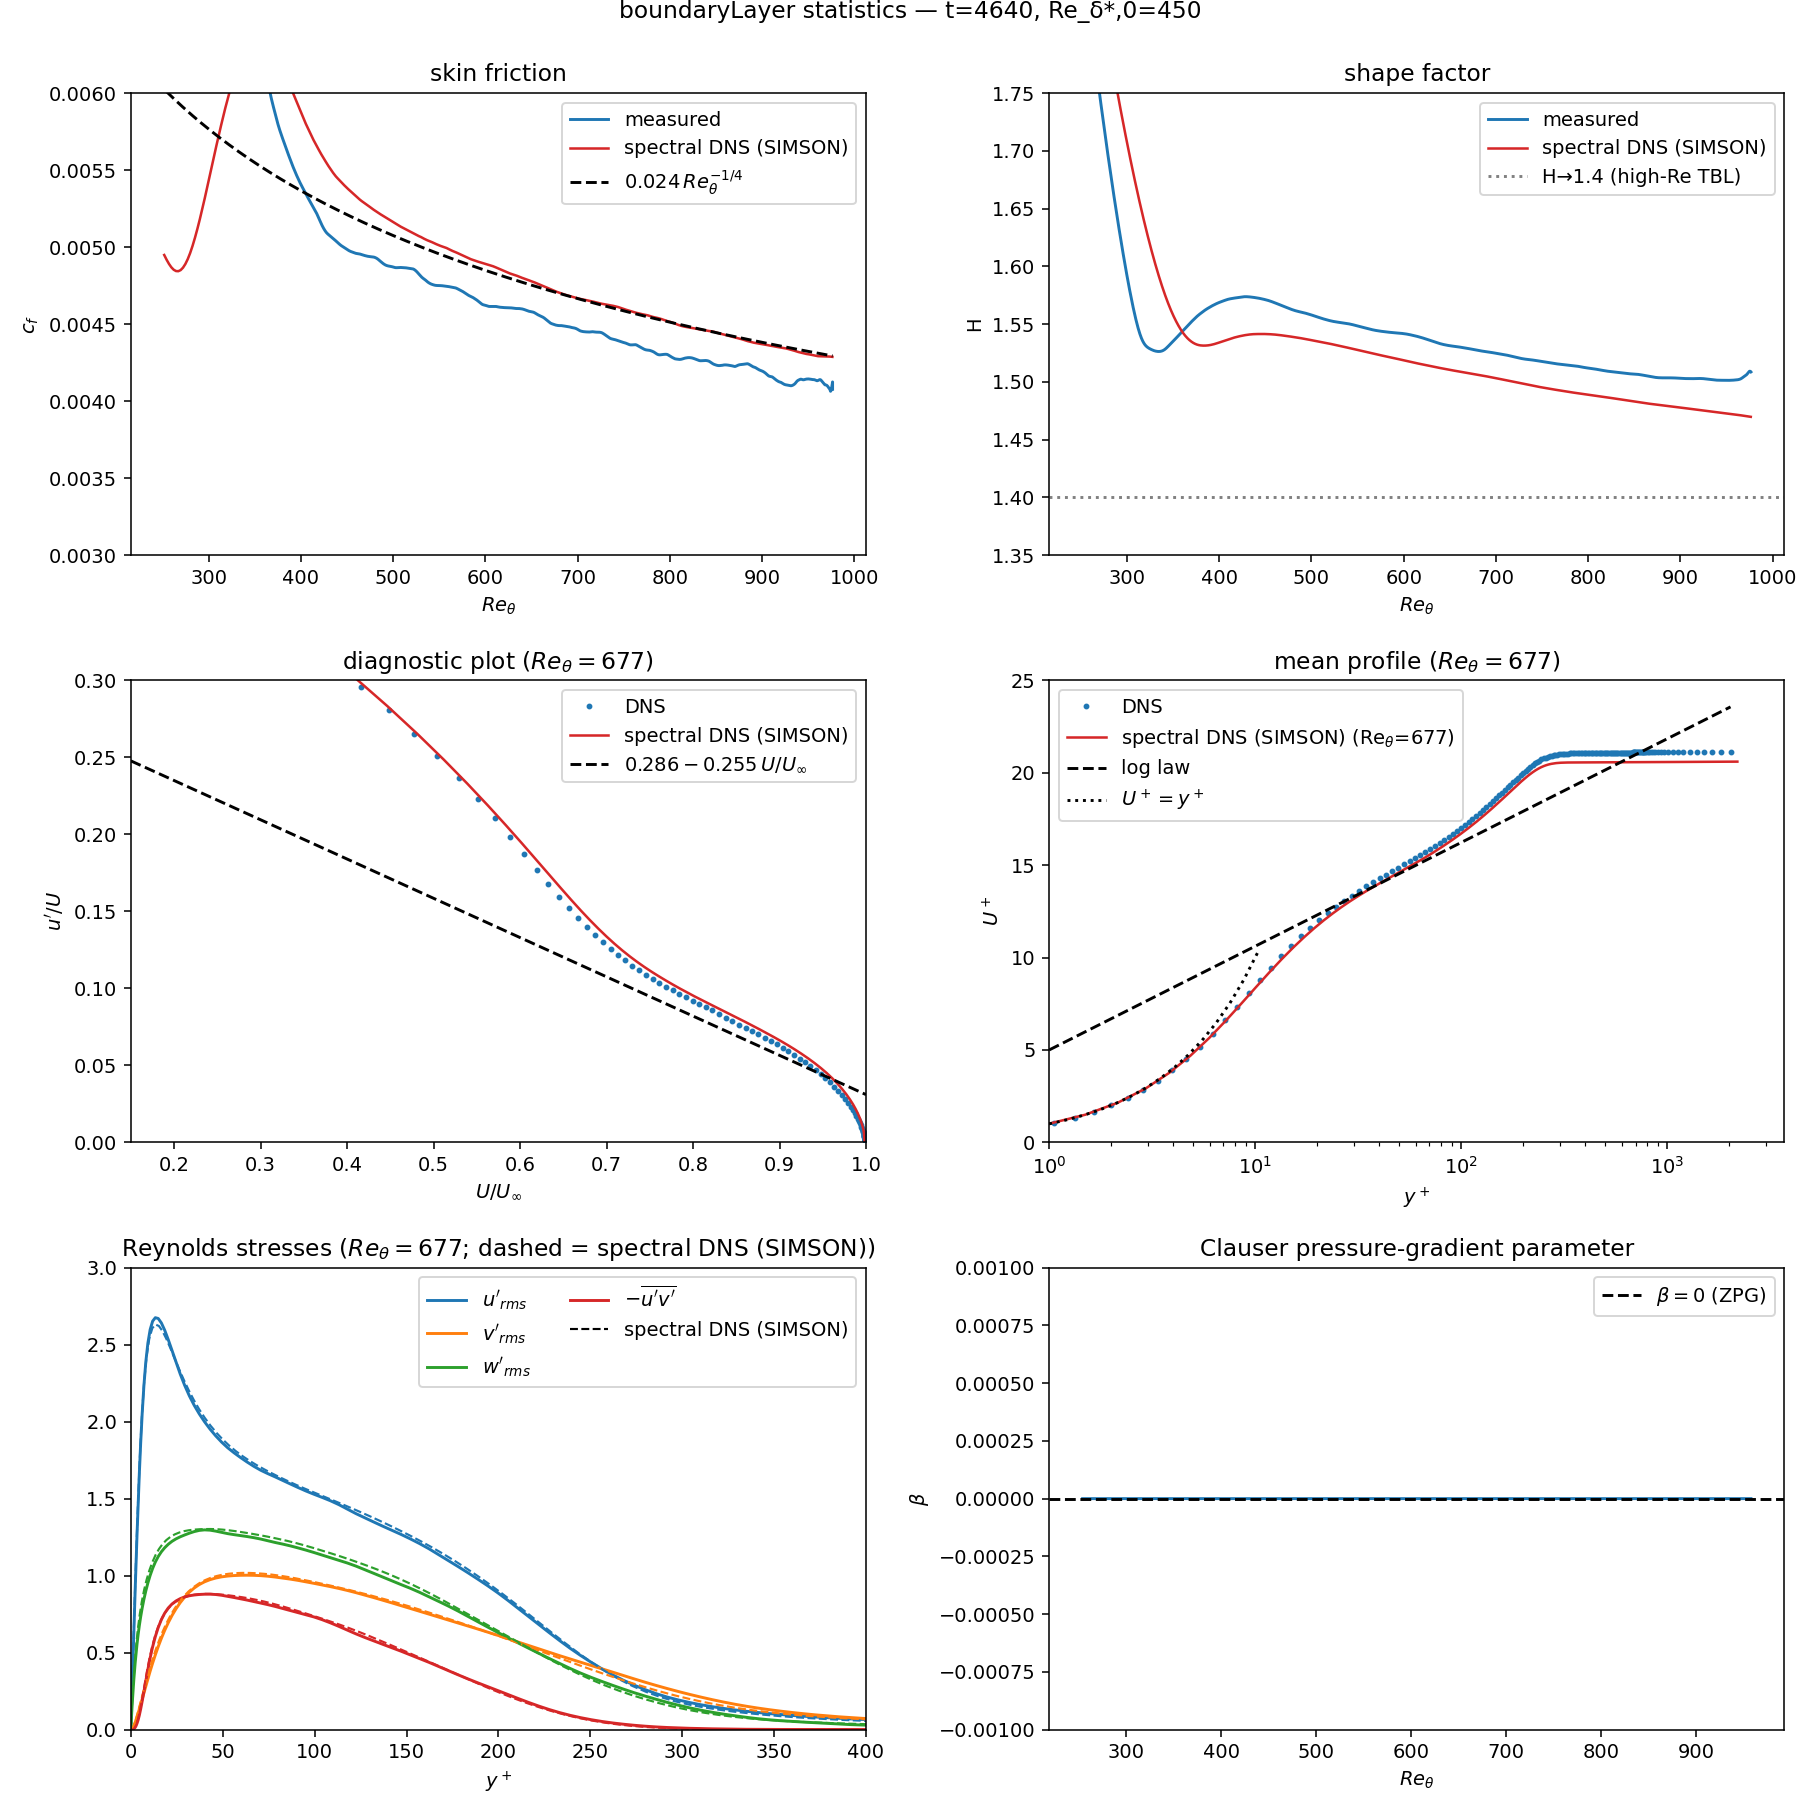
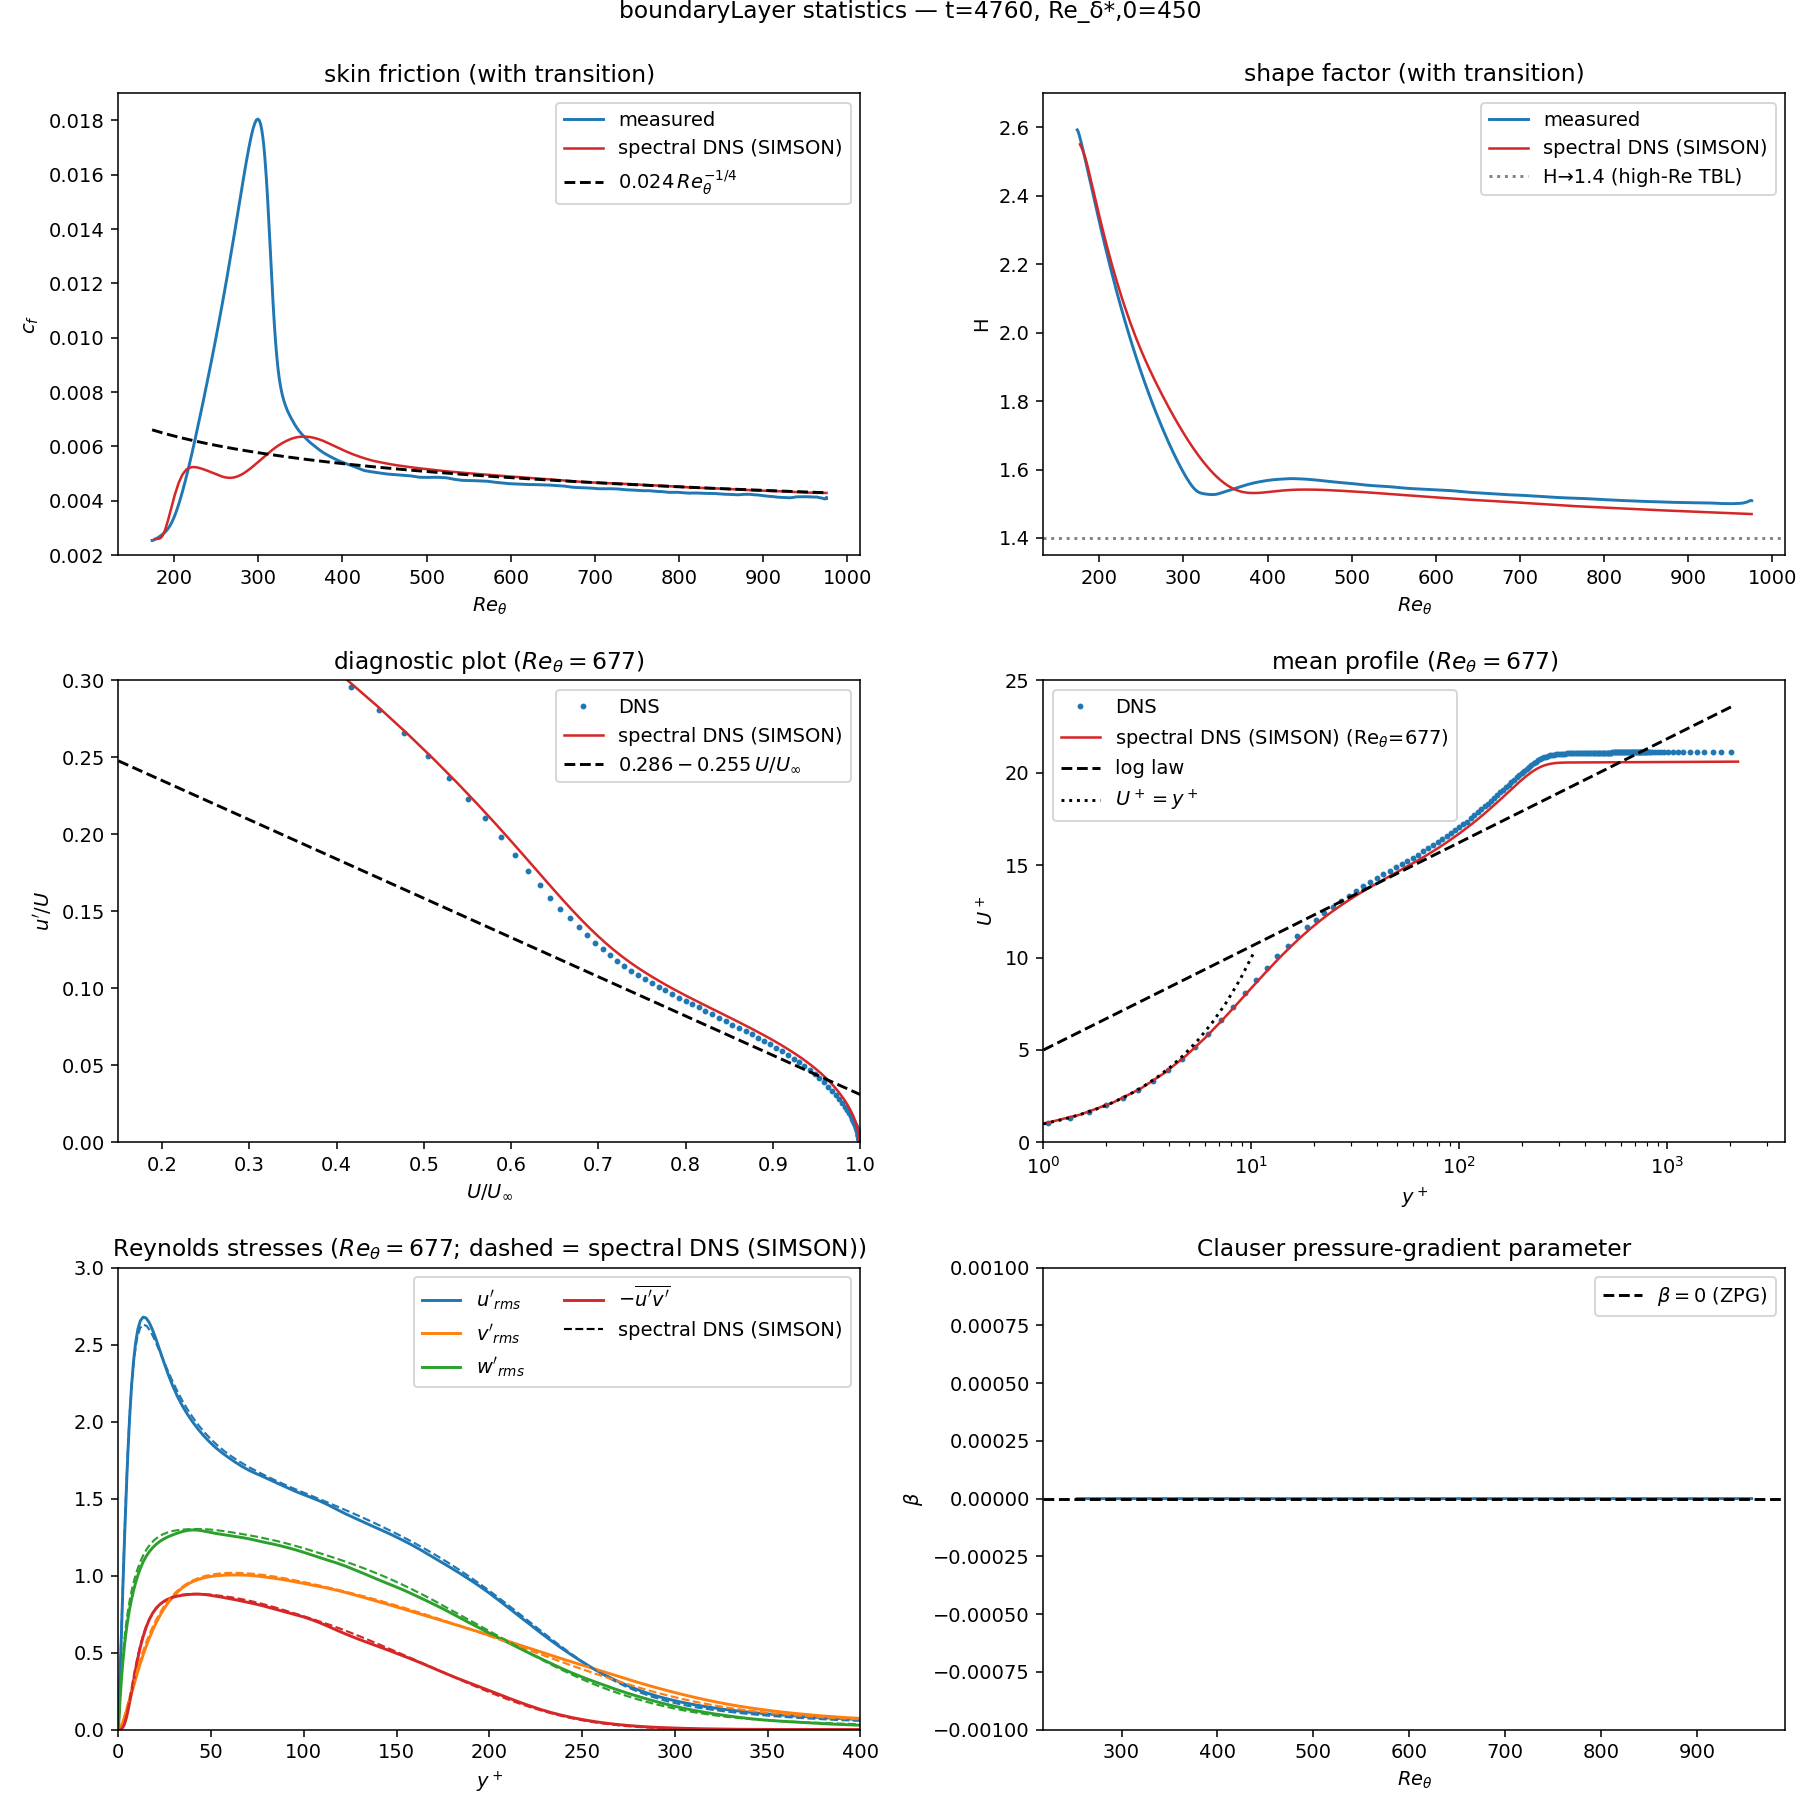
turbulent_two: rescale c_f/H trend panels to show the transition
c_f/H panels now span from Re_theta 150 (the laminar inlet, H~2.59) through the
transition overshoot: c_f ylim (0.002, 0.019), H ylim (1.35, 2.7). Makes the
tripping difference explicit -- our trip overshoots to c_f~0.018 at Re_theta 300
vs SIMSON's gentle ~0.006 bump -- the development-history source of the ~4% c_f
offset that decays downstream.

diff --git a/tutorials/turbulentBoundaryLayer/turbulent_two/bl_stats.py b/tutorials/turbulentBoundaryLayer/turbulent_two/bl_stats.py
@@ -164,26 +164,28 @@ def main():
         RC = "C3"                                         # reference colour
 
         m = reth > 250          # turbulent range (skip transition)
+        mt = reth > 150         # include the transition/overshoot for the c_f, H trends
         if ref is not None:
             sr = (ref["reth"] >= 250) & (ref["reth"] <= reth[m].max())
+            srt = (ref["reth"] >= 150) & (ref["reth"] <= reth[mt].max())
         rlab = ref["name"] if ref else None
         rlab_rt = (f"{ref['name']} (Re$_\\theta$={rp['reth']:.0f})" if ref else None)
 
-        # (0,0) c_f(Re_theta): zoom on the turbulent band
-        ax[0, 0].plot(reth[m], cf[m], label="measured")
+        # (0,0) c_f(Re_theta): full development incl. the transition overshoot
+        ax[0, 0].plot(reth[mt], cf[mt], label="measured")
         if ref is not None:
-            ax[0, 0].plot(ref["reth"][sr], ref["cf"][sr], "-", c=RC, lw=1.3, label=rlab)
-        ax[0, 0].plot(reth[m], cf_corr[m], "k--", label=r"$0.024\,Re_\theta^{-1/4}$")
+            ax[0, 0].plot(ref["reth"][srt], ref["cf"][srt], "-", c=RC, lw=1.3, label=rlab)
+        ax[0, 0].plot(reth[mt], cf_corr[mt], "k--", label=r"$0.024\,Re_\theta^{-1/4}$")
         ax[0, 0].set_xlabel(r"$Re_\theta$"); ax[0, 0].set_ylabel(r"$c_f$")
-        ax[0, 0].set_ylim(0.003, 0.006); ax[0, 0].legend(); ax[0, 0].set_title("skin friction")
+        ax[0, 0].set_ylim(0.002, 0.019); ax[0, 0].legend(); ax[0, 0].set_title("skin friction (with transition)")
 
-        # (0,1) H(Re_theta): zoom on the turbulent plateau
-        ax[0, 1].plot(reth[m], H[m], label="measured")
+        # (0,1) H(Re_theta): from the laminar inlet (H~2.59) through transition
+        ax[0, 1].plot(reth[mt], H[mt], label="measured")
         if ref is not None:
-            ax[0, 1].plot(ref["reth"][sr], ref["H"][sr], "-", c=RC, lw=1.3, label=rlab)
+            ax[0, 1].plot(ref["reth"][srt], ref["H"][srt], "-", c=RC, lw=1.3, label=rlab)
         ax[0, 1].axhline(1.4, ls=":", c="grey", label="H→1.4 (high-Re TBL)")
         ax[0, 1].set_xlabel(r"$Re_\theta$"); ax[0, 1].set_ylabel("H")
-        ax[0, 1].set_ylim(1.35, 1.75); ax[0, 1].legend(); ax[0, 1].set_title("shape factor")
+        ax[0, 1].set_ylim(1.35, 2.7); ax[0, 1].legend(); ax[0, 1].set_title("shape factor (with transition)")
 
         # (1,0) Alfredsson diagnostic plot: u'/U vs U/U_inf, with the linear fit
         Uinf = Ue[i]

diff --git a/tutorials/turbulentBoundaryLayer/turbulent_two/compare_passivewall.py b/tutorials/turbulentBoundaryLayer/turbulent_two/compare_passivewall.py
@@ -97,18 +97,18 @@ def main():
     import matplotlib.pyplot as plt
     fig, ax = plt.subplots(2, 2, figsize=(13, 10))
 
-    m = reth > 300
-    sr = (reth_rt >= 300) & (reth_rt <= reth[m].max())
+    m = reth > 150          # include the transition/overshoot
+    sr = (reth_rt >= 150) & (reth_rt <= reth[m].max())
     ax[0, 0].plot(reth[m], cf[m], label="this work")
     ax[0, 0].plot(reth_rt[sr], cf_rt[sr], "-", c="C3", lw=1.3, label="SIMSON")
     ax[0, 0].plot(reth[m], 0.024 * reth[m] ** -0.25, "k--", label=r"$0.024\,Re_\theta^{-1/4}$")
     ax[0, 0].set_xlabel(r"$Re_\theta$"); ax[0, 0].set_ylabel(r"$c_f$")
-    ax[0, 0].set_ylim(0.003, 0.006); ax[0, 0].legend(); ax[0, 0].set_title("skin friction")
+    ax[0, 0].set_ylim(0.002, 0.019); ax[0, 0].legend(); ax[0, 0].set_title("skin friction (with transition)")
 
     ax[0, 1].plot(reth[m], H[m], label="this work")
     ax[0, 1].plot(reth_rt[sr], H_rt[sr], "-", c="C3", lw=1.3, label="SIMSON")
     ax[0, 1].set_xlabel(r"$Re_\theta$"); ax[0, 1].set_ylabel("H")
-    ax[0, 1].set_ylim(1.35, 1.75); ax[0, 1].legend(); ax[0, 1].set_title("shape factor")
+    ax[0, 1].set_ylim(1.35, 2.7); ax[0, 1].legend(); ax[0, 1].set_title("shape factor (with transition)")
 
     ax[1, 0].semilogx(yp_r, Up_r, "-", c="C3", lw=1.5, label=f"SIMSON (Re$_\\theta$={R['reth'][jr]:.0f})")
     ax[1, 0].semilogx(yp, Up, "o", ms=3, mfc="none", label=f"this work (Re$_\\theta$={reth[i]:.0f})")
